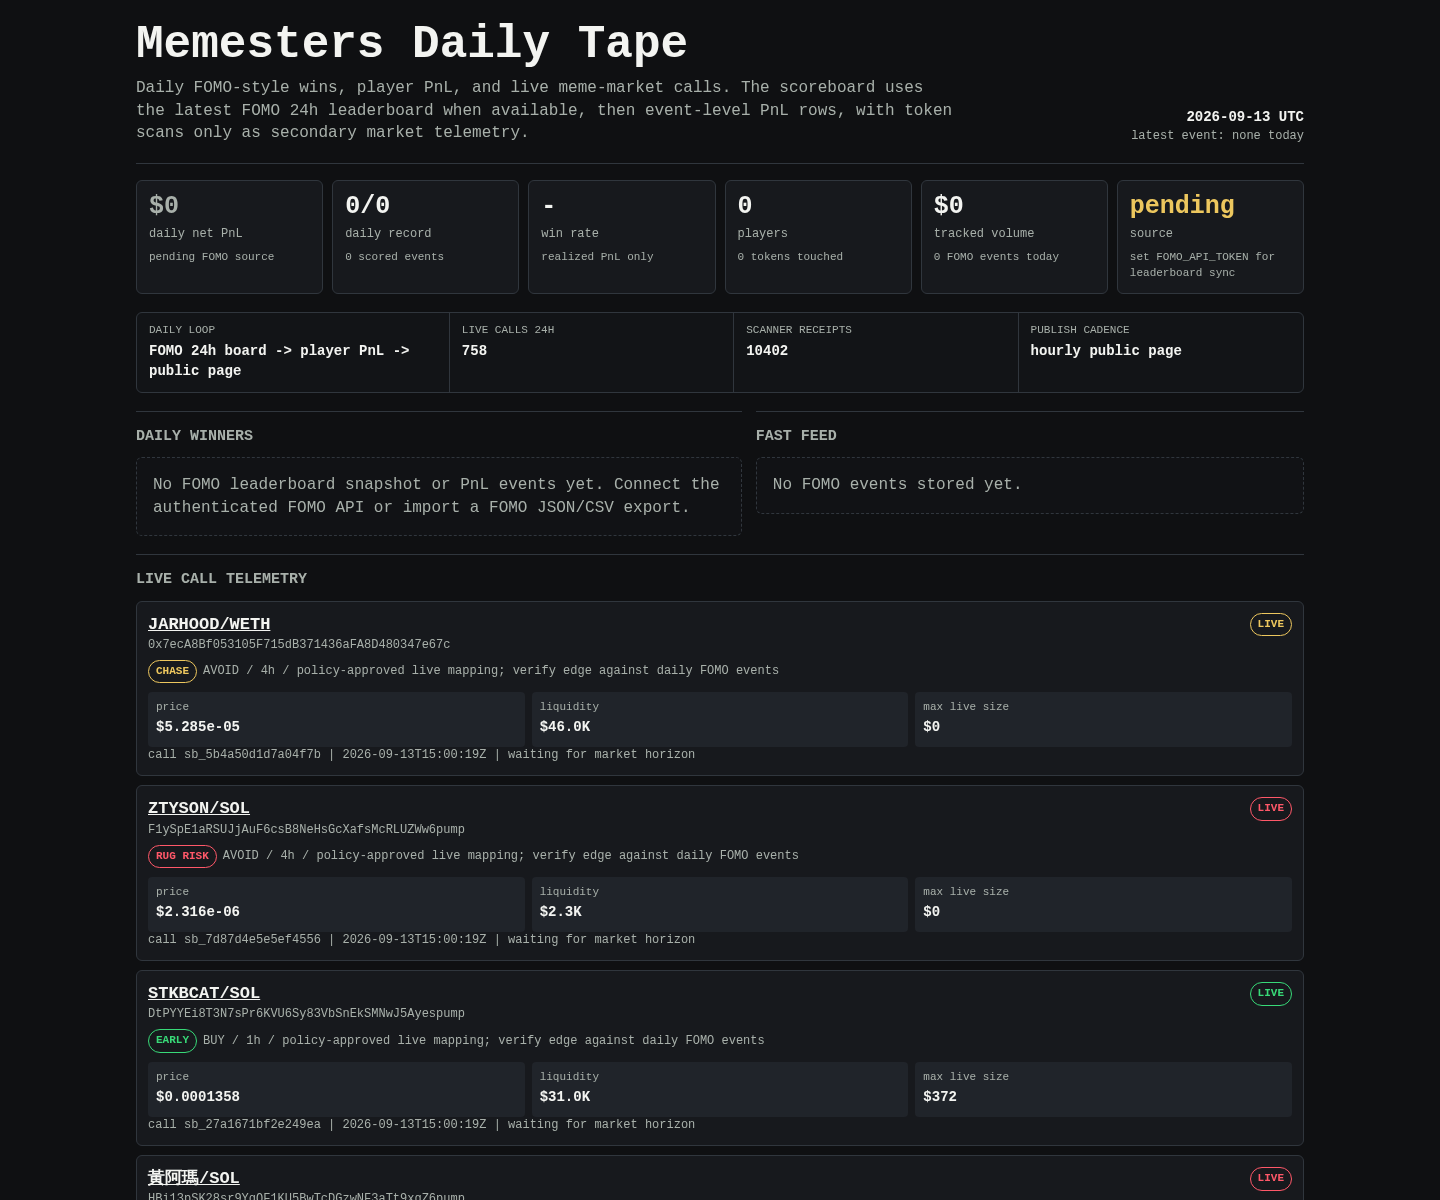
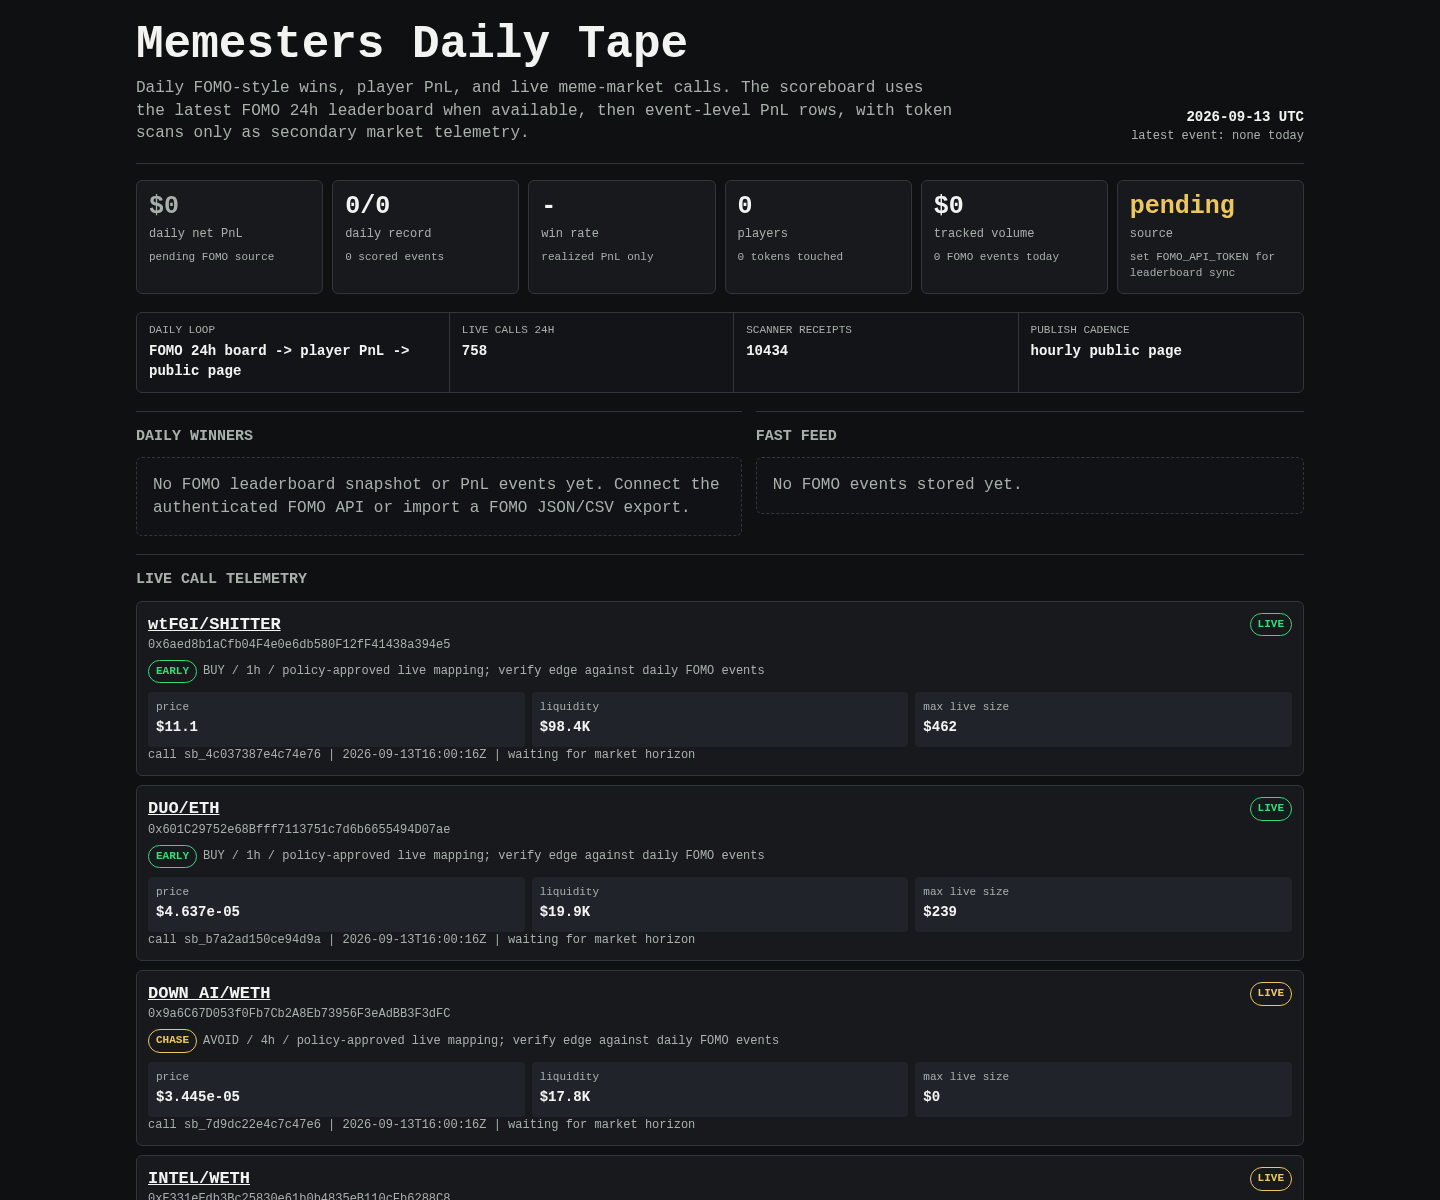
Update Memesters scoreboard

diff --git a/memesters/index.html b/memesters/index.html
@@ -150,7 +150,7 @@
     <div class="rail" aria-label="live operating loop">
       <div><span>daily loop</span><b>FOMO 24h board -> player PnL -> public page</b></div>
       <div><span>live calls 24h</span><b>758</b></div>
-      <div><span>scanner receipts</span><b>10402</b></div>
+      <div><span>scanner receipts</span><b>10434</b></div>
       <div><span>publish cadence</span><b>hourly public page</b></div>
     </div>
 
@@ -171,50 +171,8 @@
     <article class="receipt">
       <div class="receipt-head">
         <div>
-          <div class="pair"><a href="https://dexscreener.com/robinhood/0xea9e56ce93d9d069eecc7bd2cd0c2d528b39a6e0">JARHOOD/WETH</a></div>
-          <div class="addr">0x7ecA8Bf053105F715dB371436aFA8D480347e67c</div>
-          <div class="addr policy-line">
-            <span class="badge chase">CHASE</span>
-            <span>AVOID / 4h / policy-approved live mapping; verify edge against daily FOMO events</span>
-          </div>
-        </div>
-        <span class="badge chase">LIVE</span>
-      </div>
-      <div class="receipt-grid">
-        <div class="kv"><span>price</span><b>$5.285e-05</b></div>
-        <div class="kv"><span>liquidity</span><b>$46.0K</b></div>
-        <div class="kv"><span>max live size</span><b>$0</b></div>
-      </div>
-      <div class="outcomes">call sb_5b4a50d1d7a04f7b | 2026-09-13T15:00:19Z | waiting for market horizon</div>
-    </article>
-    
-
-    <article class="receipt">
-      <div class="receipt-head">
-        <div>
-          <div class="pair"><a href="https://dexscreener.com/solana/dzxbay64gkrddefcnqyg8oa2vd5brewwarjxodhuzcxe">ZTYSON/SOL</a></div>
-          <div class="addr">F1ySpE1aRSUJjAuF6csB8NeHsGcXafsMcRLUZWw6pump</div>
-          <div class="addr policy-line">
-            <span class="badge rug-risk">RUG RISK</span>
-            <span>AVOID / 4h / policy-approved live mapping; verify edge against daily FOMO events</span>
-          </div>
-        </div>
-        <span class="badge rug-risk">LIVE</span>
-      </div>
-      <div class="receipt-grid">
-        <div class="kv"><span>price</span><b>$2.316e-06</b></div>
-        <div class="kv"><span>liquidity</span><b>$2.3K</b></div>
-        <div class="kv"><span>max live size</span><b>$0</b></div>
-      </div>
-      <div class="outcomes">call sb_7d87d4e5e5ef4556 | 2026-09-13T15:00:19Z | waiting for market horizon</div>
-    </article>
-    
-
-    <article class="receipt">
-      <div class="receipt-head">
-        <div>
-          <div class="pair"><a href="https://dexscreener.com/solana/4xwztt8kh554vhlqy8wiyxk3iln7tfs8m7zdiggs9vmg">STKBCAT/SOL</a></div>
-          <div class="addr">DtPYYEi8T3N7sPr6KVU6Sy83VbSnEkSMNwJ5Ayespump</div>
+          <div class="pair"><a href="https://dexscreener.com/base/0xb9ee207ed70708fe8dbb30cbcc9a21f31e0a29684e97a65f052444c2fdc16298">wtFGI/SHITTER</a></div>
+          <div class="addr">0x6aed8b1aCfb04F4e0e6db580F12fF41438a394e5</div>
           <div class="addr policy-line">
             <span class="badge early">EARLY</span>
             <span>BUY / 1h / policy-approved live mapping; verify edge against daily FOMO events</span>
@@ -223,19 +181,166 @@
         <span class="badge early">LIVE</span>
       </div>
       <div class="receipt-grid">
-        <div class="kv"><span>price</span><b>$0.0001358</b></div>
-        <div class="kv"><span>liquidity</span><b>$31.0K</b></div>
-        <div class="kv"><span>max live size</span><b>$372</b></div>
+        <div class="kv"><span>price</span><b>$11.1</b></div>
+        <div class="kv"><span>liquidity</span><b>$98.4K</b></div>
+        <div class="kv"><span>max live size</span><b>$462</b></div>
       </div>
-      <div class="outcomes">call sb_27a1671bf2e249ea | 2026-09-13T15:00:19Z | waiting for market horizon</div>
+      <div class="outcomes">call sb_4c037387e4c74e76 | 2026-09-13T16:00:16Z | waiting for market horizon</div>
     </article>
     
 
     <article class="receipt">
       <div class="receipt-head">
         <div>
-          <div class="pair"><a href="https://dexscreener.com/solana/by6auvuldpuya3iii5nnauisemsqnbhv78trh8ex4xfu">黃阿瑪/SOL</a></div>
-          <div class="addr">HBi13pSK28sr9YqQF1KU5BwTcDGzwNF3aTt9xgZ6pump</div>
+          <div class="pair"><a href="https://dexscreener.com/robinhood/0xe7ad493981eb5a93bfbfe6e8e1acaddcb47f652c12d2d9083419a83404bc2833">DUO/ETH</a></div>
+          <div class="addr">0x601C29752e68Bfff7113751c7d6b6655494D07ae</div>
+          <div class="addr policy-line">
+            <span class="badge early">EARLY</span>
+            <span>BUY / 1h / policy-approved live mapping; verify edge against daily FOMO events</span>
+          </div>
+        </div>
+        <span class="badge early">LIVE</span>
+      </div>
+      <div class="receipt-grid">
+        <div class="kv"><span>price</span><b>$4.637e-05</b></div>
+        <div class="kv"><span>liquidity</span><b>$19.9K</b></div>
+        <div class="kv"><span>max live size</span><b>$239</b></div>
+      </div>
+      <div class="outcomes">call sb_b7a2ad150ce94d9a | 2026-09-13T16:00:16Z | waiting for market horizon</div>
+    </article>
+    
+
+    <article class="receipt">
+      <div class="receipt-head">
+        <div>
+          <div class="pair"><a href="https://dexscreener.com/robinhood/0xeeb2c0a2e54eb797cf28de254ff56c7c108c7f94">DOWN AI/WETH</a></div>
+          <div class="addr">0x9a6C67D053f0Fb7Cb2A8Eb73956F3eAdBB3F3dFC</div>
+          <div class="addr policy-line">
+            <span class="badge chase">CHASE</span>
+            <span>AVOID / 4h / policy-approved live mapping; verify edge against daily FOMO events</span>
+          </div>
+        </div>
+        <span class="badge chase">LIVE</span>
+      </div>
+      <div class="receipt-grid">
+        <div class="kv"><span>price</span><b>$3.445e-05</b></div>
+        <div class="kv"><span>liquidity</span><b>$17.8K</b></div>
+        <div class="kv"><span>max live size</span><b>$0</b></div>
+      </div>
+      <div class="outcomes">call sb_7d9dc22e4c7c47e6 | 2026-09-13T16:00:16Z | waiting for market horizon</div>
+    </article>
+    
+
+    <article class="receipt">
+      <div class="receipt-head">
+        <div>
+          <div class="pair"><a href="https://dexscreener.com/robinhood/0x2e2c907e0859ccfb820c95175f6777189e5b756b">INTEL/WETH</a></div>
+          <div class="addr">0xE331eEdb3Bc25830e61b0b4835eB110cFb6288C8</div>
+          <div class="addr policy-line">
+            <span class="badge chase">CHASE</span>
+            <span>AVOID / 4h / policy-approved live mapping; verify edge against daily FOMO events</span>
+          </div>
+        </div>
+        <span class="badge chase">LIVE</span>
+      </div>
+      <div class="receipt-grid">
+        <div class="kv"><span>price</span><b>$0.003059</b></div>
+        <div class="kv"><span>liquidity</span><b>$18.4K</b></div>
+        <div class="kv"><span>max live size</span><b>$0</b></div>
+      </div>
+      <div class="outcomes">call sb_6b49cae669dd4c93 | 2026-09-13T16:00:16Z | waiting for market horizon</div>
+    </article>
+    
+
+    <article class="receipt">
+      <div class="receipt-head">
+        <div>
+          <div class="pair"><a href="https://dexscreener.com/solana/dvhvbutsjfznex1ptuo3hekz55bdtp15gaade631zh5v">BURN/LIT</a></div>
+          <div class="addr">BosyFTqp53JPNPPqCru8eybW67CazCwj1B7YFBw5EnkZ</div>
+          <div class="addr policy-line">
+            <span class="badge early">EARLY</span>
+            <span>BUY / 1h / policy-approved live mapping; verify edge against daily FOMO events</span>
+          </div>
+        </div>
+        <span class="badge early">LIVE</span>
+      </div>
+      <div class="receipt-grid">
+        <div class="kv"><span>price</span><b>$3.113e-05</b></div>
+        <div class="kv"><span>liquidity</span><b>$14.9K</b></div>
+        <div class="kv"><span>max live size</span><b>$133</b></div>
+      </div>
+      <div class="outcomes">call sb_ea33962ca1944390 | 2026-09-13T16:00:16Z | waiting for market horizon</div>
+    </article>
+    
+
+    <article class="receipt">
+      <div class="receipt-head">
+        <div>
+          <div class="pair"><a href="https://dexscreener.com/robinhood/0x6ed8b6b088b82bdc282ad90b84ada50b30c4751b2569467d9d64ae355b3e0009">CUMCOIN/QQQ</a></div>
+          <div class="addr">0x568BaE81d990C687A7068BB579788515E60549BB</div>
+          <div class="addr policy-line">
+            <span class="badge early">EARLY</span>
+            <span>BUY / 1h / policy-approved live mapping; verify edge against daily FOMO events</span>
+          </div>
+        </div>
+        <span class="badge early">LIVE</span>
+      </div>
+      <div class="receipt-grid">
+        <div class="kv"><span>price</span><b>$0.0001147</b></div>
+        <div class="kv"><span>liquidity</span><b>$27.3K</b></div>
+        <div class="kv"><span>max live size</span><b>$327</b></div>
+      </div>
+      <div class="outcomes">call sb_317bb7b4dee84133 | 2026-09-13T16:00:16Z | waiting for market horizon</div>
+    </article>
+    
+
+    <article class="receipt">
+      <div class="receipt-head">
+        <div>
+          <div class="pair"><a href="https://dexscreener.com/robinhood/0xe2863da3c3bf82337645e7ca5179d83529e85e2e605b91220b15a48440d2d793">Ponsorian/USDG</a></div>
+          <div class="addr">0x0b1e822d81028BAD37bCebaBe002E7f01bB81F9d</div>
+          <div class="addr policy-line">
+            <span class="badge early">EARLY</span>
+            <span>BUY / 1h / policy-approved live mapping; verify edge against daily FOMO events</span>
+          </div>
+        </div>
+        <span class="badge early">LIVE</span>
+      </div>
+      <div class="receipt-grid">
+        <div class="kv"><span>price</span><b>$3.066e-05</b></div>
+        <div class="kv"><span>liquidity</span><b>$14.2K</b></div>
+        <div class="kv"><span>max live size</span><b>$171</b></div>
+      </div>
+      <div class="outcomes">call sb_3127eb70aca44ec8 | 2026-09-13T16:00:16Z | waiting for market horizon</div>
+    </article>
+    
+
+    <article class="receipt">
+      <div class="receipt-head">
+        <div>
+          <div class="pair"><a href="https://dexscreener.com/bsc/0x3fe554a58c5cfe2de58b14c14b9d28e900ceb990">ENGINE/USDT</a></div>
+          <div class="addr">0x1D625B7A83E9B6E145217d81e61e2627a05f7777</div>
+          <div class="addr policy-line">
+            <span class="badge chase">CHASE</span>
+            <span>AVOID / 4h / policy-approved live mapping; verify edge against daily FOMO events</span>
+          </div>
+        </div>
+        <span class="badge chase">LIVE</span>
+      </div>
+      <div class="receipt-grid">
+        <div class="kv"><span>price</span><b>$3.761e-05</b></div>
+        <div class="kv"><span>liquidity</span><b>$38.8K</b></div>
+        <div class="kv"><span>max live size</span><b>$0</b></div>
+      </div>
+      <div class="outcomes">call sb_f79ac623ba194dd4 | 2026-09-13T16:00:16Z | waiting for market horizon</div>
+    </article>
+    
+
+    <article class="receipt">
+      <div class="receipt-head">
+        <div>
+          <div class="pair"><a href="https://dexscreener.com/solana/h2ndj5qfhgvvdkljlai9ygzpsygltp2kolhwzadv5u2v">AAPLCAT/SOL</a></div>
+          <div class="addr">C7962B3qAPC2ova24tVYDAy6Hi4hNFeXvBYn9A72pump</div>
           <div class="addr policy-line">
             <span class="badge rug-risk">RUG RISK</span>
             <span>AVOID / 4h / policy-approved live mapping; verify edge against daily FOMO events</span>
@@ -244,137 +349,32 @@
         <span class="badge rug-risk">LIVE</span>
       </div>
       <div class="receipt-grid">
-        <div class="kv"><span>price</span><b>$2.003e-06</b></div>
-        <div class="kv"><span>liquidity</span><b>$2.1K</b></div>
+        <div class="kv"><span>price</span><b>$0.0002005</b></div>
+        <div class="kv"><span>liquidity</span><b>$36.7K</b></div>
         <div class="kv"><span>max live size</span><b>$0</b></div>
       </div>
-      <div class="outcomes">call sb_a9fb75da357b4da9 | 2026-09-13T15:00:19Z | waiting for market horizon</div>
+      <div class="outcomes">call sb_1c69cfe3d1894663 | 2026-09-13T15:45:16Z | waiting for market horizon</div>
     </article>
     
 
     <article class="receipt">
       <div class="receipt-head">
         <div>
-          <div class="pair"><a href="https://dexscreener.com/robinhood/0x42276db602bef2e410483aa4c0e7083208fa1d7c">gigalon/WETH</a></div>
-          <div class="addr">0x7190Cb95dead29359eB9050f03Ce6bffBf2915c0</div>
+          <div class="pair"><a href="https://dexscreener.com/robinhood/0x6a4df4d39fcaaea0ac8f9964800675e137de00aec5b6c1364766c2e02a49ae98">FARLIGHT/ETH</a></div>
+          <div class="addr">0x9208c31544effDC0a7bbA065353eF8ead1A69D94</div>
           <div class="addr policy-line">
-            <span class="badge chase">CHASE</span>
-            <span>AVOID / 4h / policy-approved live mapping; verify edge against daily FOMO events</span>
+            <span class="badge early">EARLY</span>
+            <span>BUY / 1h / policy-approved live mapping; verify edge against daily FOMO events</span>
           </div>
         </div>
-        <span class="badge chase">LIVE</span>
+        <span class="badge early">LIVE</span>
       </div>
       <div class="receipt-grid">
-        <div class="kv"><span>price</span><b>$0.0001264</b></div>
-        <div class="kv"><span>liquidity</span><b>$64.1K</b></div>
-        <div class="kv"><span>max live size</span><b>$0</b></div>
+        <div class="kv"><span>price</span><b>$6.233e-05</b></div>
+        <div class="kv"><span>liquidity</span><b>$23.1K</b></div>
+        <div class="kv"><span>max live size</span><b>$179</b></div>
       </div>
-      <div class="outcomes">call sb_2b9eccc7f49a4ee6 | 2026-09-13T15:00:19Z | waiting for market horizon</div>
-    </article>
-    
-
-    <article class="receipt">
-      <div class="receipt-head">
-        <div>
-          <div class="pair"><a href="https://dexscreener.com/solana/2f8ngquemsqpapdx8t4ectydydq49va1pwduabkjdsxc">rat/SOL</a></div>
-          <div class="addr">9dWDjBdiA186JVEKLvHCSbKaMZqLqrkW9WJ8j5S6pump</div>
-          <div class="addr policy-line">
-            <span class="badge chase">CHASE</span>
-            <span>AVOID / 4h / policy-approved live mapping; verify edge against daily FOMO events</span>
-          </div>
-        </div>
-        <span class="badge chase">LIVE</span>
-      </div>
-      <div class="receipt-grid">
-        <div class="kv"><span>price</span><b>$0.0001295</b></div>
-        <div class="kv"><span>liquidity</span><b>$28.9K</b></div>
-        <div class="kv"><span>max live size</span><b>$0</b></div>
-      </div>
-      <div class="outcomes">call sb_e5a36328d9884f9c | 2026-09-13T15:00:19Z | waiting for market horizon</div>
-    </article>
-    
-
-    <article class="receipt">
-      <div class="receipt-head">
-        <div>
-          <div class="pair"><a href="https://dexscreener.com/robinhood/0x25d555e00faf8aff3e70768e9ff917ab14fd09502ffe3f00ed7d6dde4d8ca298">CLARITY/WETH</a></div>
-          <div class="addr">0x33242B42288B0a9aa0fdd49625C617EBE5474a35</div>
-          <div class="addr policy-line">
-            <span class="badge chase">CHASE</span>
-            <span>AVOID / 4h / policy-approved live mapping; verify edge against daily FOMO events</span>
-          </div>
-        </div>
-        <span class="badge chase">LIVE</span>
-      </div>
-      <div class="receipt-grid">
-        <div class="kv"><span>price</span><b>$6.893e-07</b></div>
-        <div class="kv"><span>liquidity</span><b>$62.2K</b></div>
-        <div class="kv"><span>max live size</span><b>$0</b></div>
-      </div>
-      <div class="outcomes">call sb_fb4646a58df54fac | 2026-09-13T15:00:19Z | waiting for market horizon</div>
-    </article>
-    
-
-    <article class="receipt">
-      <div class="receipt-head">
-        <div>
-          <div class="pair"><a href="https://dexscreener.com/solana/ftaqbynqyrnnh4hbn2t3ryq4djkvgegzqyfdyk6c1oyu">DONGLE/SOL</a></div>
-          <div class="addr">TMf6rnjfRc5uANLt9A4Fa9H4N6p1KFxunk77szTpump</div>
-          <div class="addr policy-line">
-            <span class="badge chase">CHASE</span>
-            <span>AVOID / 4h / policy-approved live mapping; verify edge against daily FOMO events</span>
-          </div>
-        </div>
-        <span class="badge chase">LIVE</span>
-      </div>
-      <div class="receipt-grid">
-        <div class="kv"><span>price</span><b>$0.0005725</b></div>
-        <div class="kv"><span>liquidity</span><b>$64.5K</b></div>
-        <div class="kv"><span>max live size</span><b>$0</b></div>
-      </div>
-      <div class="outcomes">call sb_3987cea1b40946d6 | 2026-09-13T15:00:19Z | waiting for market horizon</div>
-    </article>
-    
-
-    <article class="receipt">
-      <div class="receipt-head">
-        <div>
-          <div class="pair"><a href="https://dexscreener.com/robinhood/0xcc59d48f0eb4cd668d759708072d22b4a27e01a0">YOINK/WETH</a></div>
-          <div class="addr">0x6268808aa25b47f0aFFEee0E6139ab1CC9460d1D</div>
-          <div class="addr policy-line">
-            <span class="badge chase">CHASE</span>
-            <span>AVOID / 4h / policy-approved live mapping; verify edge against daily FOMO events</span>
-          </div>
-        </div>
-        <span class="badge chase">LIVE</span>
-      </div>
-      <div class="receipt-grid">
-        <div class="kv"><span>price</span><b>$0.004387</b></div>
-        <div class="kv"><span>liquidity</span><b>$215.4K</b></div>
-        <div class="kv"><span>max live size</span><b>$0</b></div>
-      </div>
-      <div class="outcomes">call sb_d550b090928b4efc | 2026-09-13T14:45:16Z | waiting for market horizon</div>
-    </article>
-    
-
-    <article class="receipt">
-      <div class="receipt-head">
-        <div>
-          <div class="pair"><a href="https://dexscreener.com/solana/gdv74w6alcmh6yg7szw46l2q6nhbtbfjkpnqcaqckr5b">Mizzy/SOL</a></div>
-          <div class="addr">2HFakYaUp8au5oZThEvZ8wvSqoTreTQAvqtvoKarpump</div>
-          <div class="addr policy-line">
-            <span class="badge chase">CHASE</span>
-            <span>AVOID / 4h / policy-approved live mapping; verify edge against daily FOMO events</span>
-          </div>
-        </div>
-        <span class="badge chase">LIVE</span>
-      </div>
-      <div class="receipt-grid">
-        <div class="kv"><span>price</span><b>$0.0003407</b></div>
-        <div class="kv"><span>liquidity</span><b>$50.4K</b></div>
-        <div class="kv"><span>max live size</span><b>$0</b></div>
-      </div>
-      <div class="outcomes">call sb_1a326913f1844f82 | 2026-09-13T14:45:16Z | waiting for market horizon</div>
+      <div class="outcomes">call sb_4340f271717846c1 | 2026-09-13T15:45:16Z | waiting for market horizon</div>
     </article>
     
     </section>
